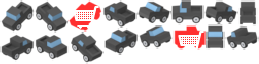
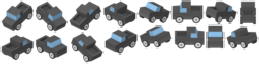
Changes sprite manually

Changed region(s): [[0.2471, 0.0, 0.4015, 0.5], [0.6486, 0.375, 0.8031, 0.7812]]

diff --git a/src/js/elements/Car.js b/src/js/elements/Car.js
@@ -1,8 +1,21 @@
 import GameSprite from '../objects/GameSprite'
 
+const FRAME_HEADING = [2, 7, 6, 0]
+
+const ANIMATIONS = {
+  '32': [5, 6],
+  '12': [11, 6],
+  '30': [1, 2],
+  '10': [8, 2],
+  '03': [1, 0],
+  '23': [5, 0],
+  '01': [8, 7],
+  '21': [11, 7]
+}
+
 export default class Car extends GameSprite {
   constructor (game, x, y, z, heading, group) {
-    super(game, x, y, 0, 'cars', 'carBlack1_006', group)
+    super(game, x, y, 0, 'cars', `carBlack1_00${FRAME_HEADING[heading]}`, group)
 
     this.game = game
 
@@ -13,6 +26,8 @@ export default class Car extends GameSprite {
     this.lastCommand = null
 
     this.path = null
+
+    this.totalPoints = -1
   }
 
   move (direction) {
@@ -22,6 +37,12 @@ export default class Car extends GameSprite {
       return super.move(this.heading)
     }
 
+    const pointsLeft = this.path.points.length
+
+    if (this.totalPoints < 0) {
+      this.totalPoints = pointsLeft
+    }
+
     this.stop()
 
     const {x, y} = this.game.iso.unproject(this.path.points.shift())
@@ -29,11 +50,24 @@ export default class Car extends GameSprite {
     this.body.x = x
     this.body.y = y
 
-    if (this.path.points.length === 0) {
+    const steer = ANIMATIONS[`${this.heading}${this.path.next}`]
+
+    if (pointsLeft === 1) {
       this.heading = this.path.next
       super.move(this.heading)
       this.path = null
+      this.totalPoints = -1
+    } else if (pointsLeft <= this.totalPoints / 4) {
+      this.steer(steer[1])
+    } else if (pointsLeft <= 3 * this.totalPoints / 4) {
+      this.steer(steer[0])
     }
+  }
+
+  steer (frame) {
+    frame = frame < 10 ? `0${frame}` : frame
+    this.loadTexture('cars', `carBlack1_0${frame}`)
+    this.anchor.set(0.5)
   }
 
   update () {

diff --git a/src/js/elements/Curve.js b/src/js/elements/Curve.js
@@ -1,5 +1,7 @@
 import Tile from '../objects/Tile'
 
+const STEPS = 166
+
 const CONTROL_POINTS = {
   'c125': [[-30, 15], [0, 30], [-30, 45]],
   'c126': [[30, 15], [0, 30], [-30, 15]],
@@ -49,6 +51,12 @@ export default class Curve extends Tile {
       'c124': [17, 28, 1]
     }
 
+    const next = this._nextHeading(car.heading)
+
+    if (next < 0) {
+      return null
+    }
+
     let points = []
 
     for (let i = 0; i <= 1; i += 0.006) {
@@ -62,12 +70,6 @@ export default class Curve extends Tile {
         x: px,
         y: py
       })
-    }
-
-    const next = this._nextHeading(car.heading)
-
-    if (next < 0) {
-      return null
     }
 
     return {
